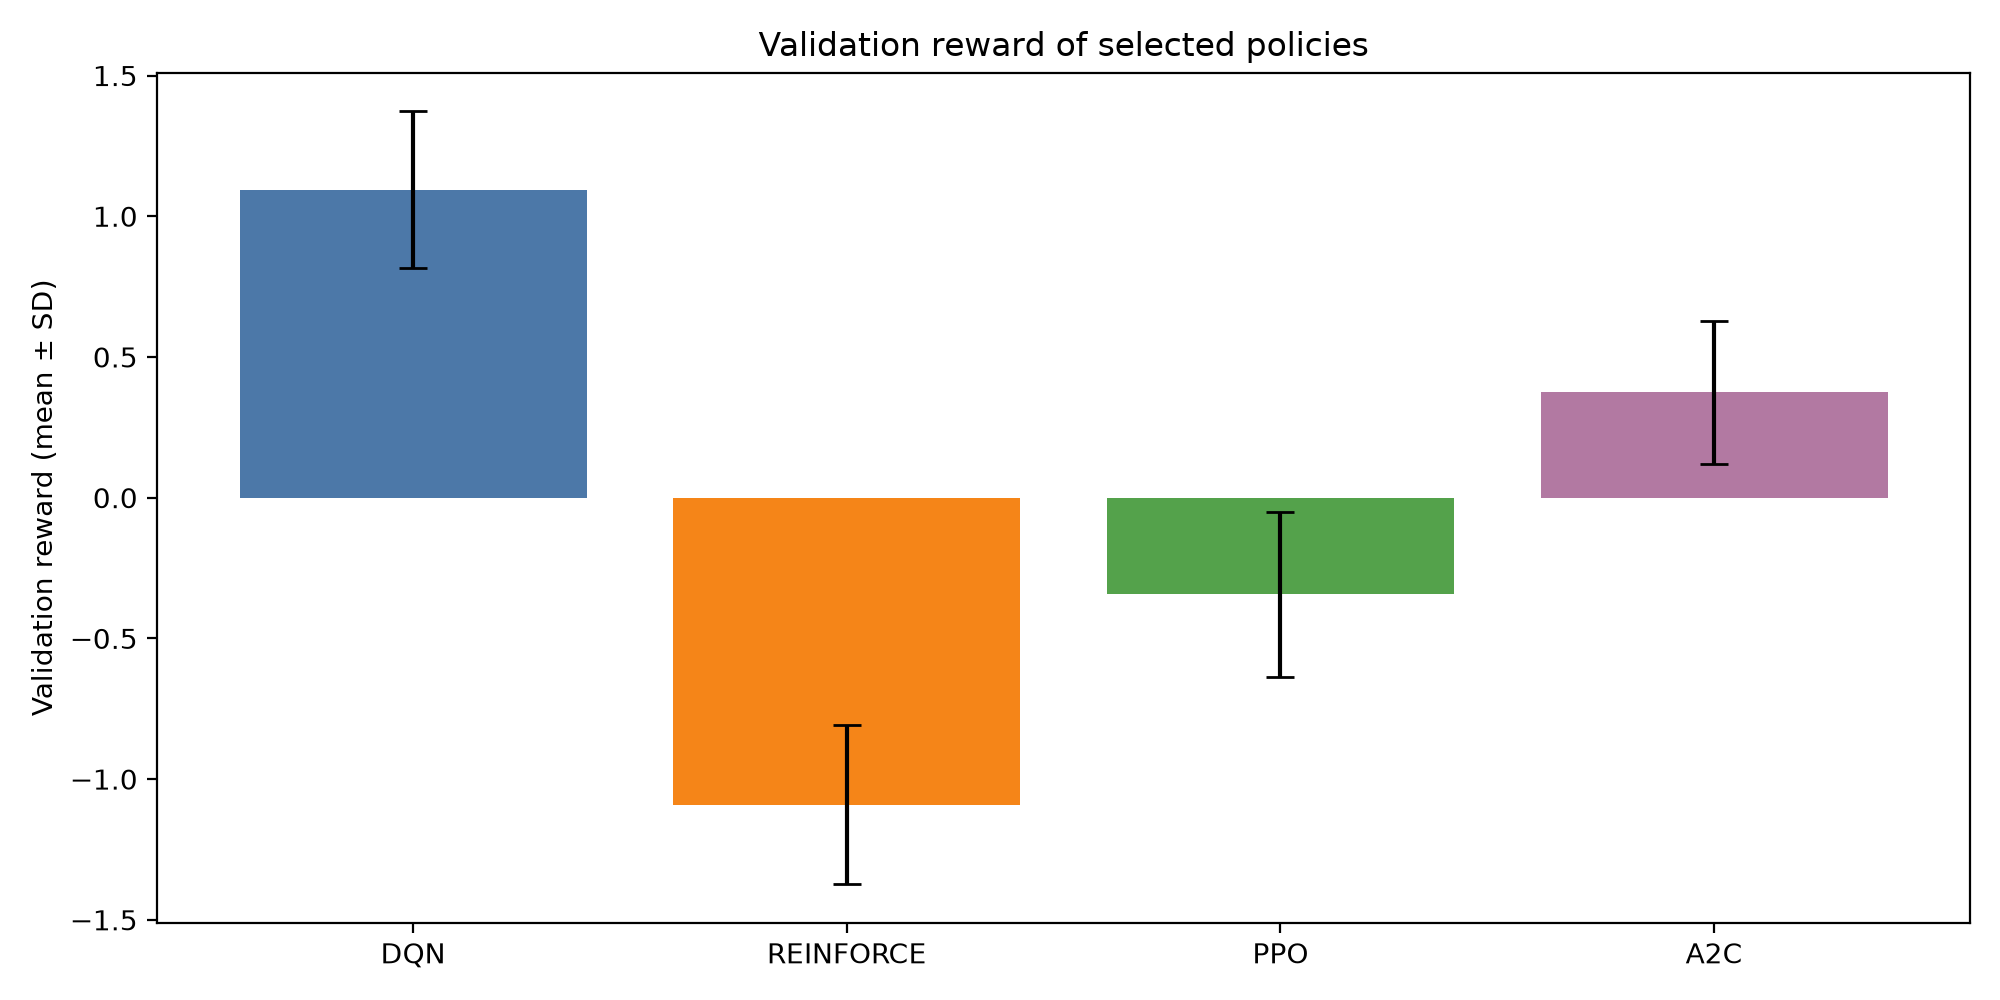
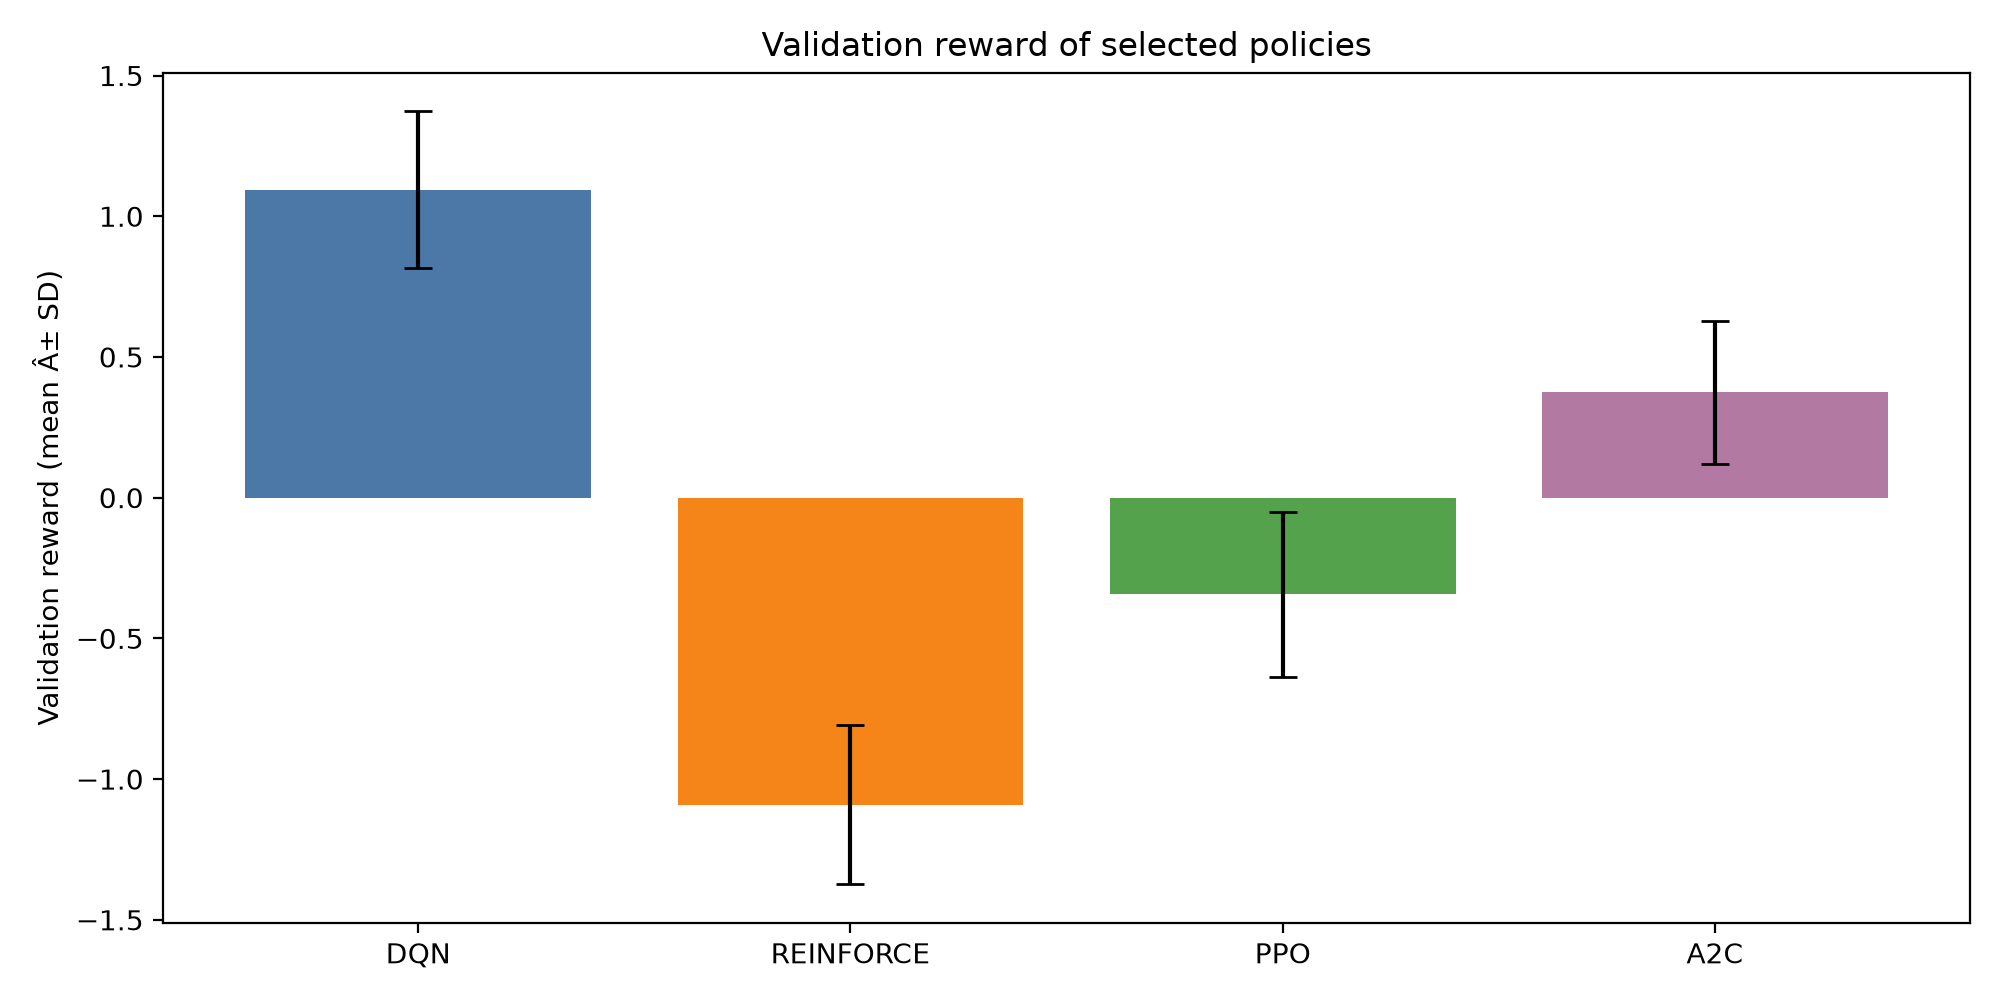
Keep demo open after episodes and add evaluation results

diff --git a/training/budget_study.py b/training/budget_study.py
@@ -1,0 +1,59 @@
+"""Repeat a selected policy-gradient configuration with a larger episode budget."""
+
+import argparse
+import csv
+import json
+from pathlib import Path
+
+import torch
+
+from training.analysis import episodes_to_convergence
+from training.evaluation import evaluate_behavior, greedy_action, sampled_action, write_results
+from training.pg_training import evaluate_policy, train_a2c, train_ppo, train_reinforce
+
+TRAINERS = {"reinforce": train_reinforce, "ppo": train_ppo, "a2c": train_a2c}
+
+
+def main():
+    parser = argparse.ArgumentParser(description=__doc__)
+    parser.add_argument("algorithm", choices=TRAINERS)
+    parser.add_argument("--episodes", type=int, default=600)
+    args = parser.parse_args()
+    if args.episodes < 1:
+        parser.error("--episodes must be positive")
+
+    torch.set_num_threads(1)
+    with Path(f"logs/{args.algorithm}_experiments.csv").open(encoding="utf-8") as handle:
+        selected = max(csv.DictReader(handle), key=lambda row: (
+            float(row["evaluation_mean_reward"]), -float(row["evaluation_std_reward"])
+        ))
+    seed = int(selected["seed"])
+    model, rewards, _, _, lengths = TRAINERS[args.algorithm](
+        args.episodes, seed, json.loads(selected["config"])
+    )
+    validation_mean, validation_sd = evaluate_policy(model)
+    convergence = episodes_to_convergence(rewards)
+    common = {
+        "source_run_id": int(selected["run_id"]),
+        "training_seed": seed,
+        "training_episodes": args.episodes,
+        "training_interactions": sum(lengths),
+        "validation_greedy_mean": validation_mean,
+        "validation_greedy_sd": validation_sd,
+        "convergence_episode": convergence if convergence is not None else "not_reached",
+    }
+    records = [
+        {"mode": "greedy", **common, **evaluate_behavior(
+            args.algorithm, lambda env, obs, rng: greedy_action(model, obs)
+        )},
+        {"mode": "sampled", **common, **evaluate_behavior(
+            args.algorithm, lambda env, obs, rng: sampled_action(model, obs, rng)
+        )},
+    ]
+    write_results(f"{args.algorithm}_budget_{args.episodes}.csv", records)
+    for record in records:
+        print(record)
+
+
+if __name__ == "__main__":
+    main()

diff --git a/main.py b/main.py
@@ -14,7 +14,7 @@ def build_parser() -> argparse.ArgumentParser:
 
     demo = sub.add_parser("demo", help="Run one trained or random agent in the Pygame GUI")
     demo.add_argument("--algorithm", choices=("best", "random", "dqn", "reinforce", "ppo", "a2c"), default="best")
-    demo.add_argument("--hold-seconds", type=float, default=30.0, help="Keep the final frame open for recording")
+    demo.add_argument("--hold-seconds", type=float, help="Auto-close after this many seconds at the end (default: wait for window close)")
 
     demo.add_argument("--seed", type=int, default=2026)
     demo.add_argument("--step-seconds", type=float, default=0.5, help="Time to display each simulated hour")
@@ -40,7 +40,7 @@ def main() -> None:
         parser.error("training requires at least one episode and 1 to 10 configurations")
 
     if args.command == "demo" and any(
-        not math.isfinite(duration) or duration < 0
+        duration is not None and (not math.isfinite(duration) or duration < 0)
         for duration in (args.step_seconds, args.hold_seconds)
     ):
         parser.error("demo durations must be finite and nonnegative")
@@ -105,7 +105,9 @@ def main() -> None:
                     reason = "critical wellbeing threshold" if terminated else "end of the week"
                     print(f"Episode finished at {reason}.", flush=True)
                 duration = args.hold_seconds if finished else args.step_seconds
-                deadline = time.monotonic() + duration
+                if finished and duration is None:
+                    print("Close the Pygame window when you are ready to exit.", flush=True)
+                deadline = math.inf if duration is None else time.monotonic() + duration
                 while True:
                     if any(
                         event.type in (pygame.QUIT, pygame.WINDOWCLOSE)

diff --git a/training/analysis.py b/training/analysis.py
@@ -37,7 +37,7 @@ def rolling_mean(values: list[float], window: int = 10) -> np.ndarray:
 
 def episodes_to_convergence(rewards: list[float], window: int = 20, stable_span: int = 50, tolerance: float = 0.05) -> int | None:
     """Estimate convergence from a stable rolling mean near the final average."""
-    if len(rewards) < window + stable_span:
+    if len(rewards) < window + stable_span - 1:
         return None
     rolling = rolling_mean(rewards, window)
     final_mean = float(np.mean(rewards[-window:]))
@@ -102,7 +102,7 @@ def generate_plots(log_dir: str = "logs", output_dir: str = "assets") -> dict:
             stds.append(record["evaluation_std_reward"])
     if names:
         ax.bar(names, means, yerr=stds, capsize=5, color=("#4C78A8", "#F58518", "#54A24B", "#B279A2"))
-        ax.set_ylabel("Validation reward (mean ± SD)")
+        ax.set_ylabel("Validation reward (mean Â± SD)")
         ax.set_title("Validation reward of selected policies")
     fig.tight_layout()
     fig.savefig(assets / "evaluation_comparison.png", dpi=200)
@@ -189,7 +189,7 @@ def generate_plots(log_dir: str = "logs", output_dir: str = "assets") -> dict:
                 "evaluation_std_reward": record["evaluation_std_reward"],
                 "late_mean_reward": stable_threshold,
                 "episodes": len(rewards),
-                "convergence_episode": convergence_episode,
+                "convergence_episode": convergence_episode if convergence_episode is not None else "not_reached",
             })
 
     all_runs = [

diff --git a/training/evaluation.py b/training/evaluation.py
@@ -7,9 +7,10 @@ from pathlib import Path
 import numpy as np
 import torch
 
-from environment.custom_env import ElderCareEnv
+from environment.custom_env import ElderCareEnv, OBSERVATION_NAMES
 
 TEST_SEEDS = range(200_000, 200_050)
+PREVIOUS_ACTION_OFFSET = OBSERVATION_NAMES.index('previous_action_0')
 
 
 def load_policy(algorithm: str):
@@ -92,6 +93,12 @@ def write_results(filename, results):
         writer.writerows(results)
 
 
+def max_fit_without_repeat(env, observation, generator) -> int:
+    previous_actions = observation[PREVIOUS_ACTION_OFFSET:PREVIOUS_ACTION_OFFSET + env.action_space.n]
+    candidates = (action for action in range(env.action_space.n) if not previous_actions[action])
+    return max(candidates, key=env._action_fit)
+
+
 def evaluate_selected():
     results = []
     diagnostics = []
@@ -107,6 +114,8 @@ def evaluate_selected():
     diagnostics.append(evaluate_behavior(
         "max_fit_oracle", lambda env, obs, rng: max(range(env.action_space.n), key=env._action_fit)
     ))
+    diagnostics.append(evaluate_behavior("max_fit_no_repeat", max_fit_without_repeat))
+    diagnostics.append(evaluate_behavior("always_hydration", lambda env, obs, rng: 1))
     diagnostics.append(evaluate_behavior("no_prompt", lambda env, obs, rng: 0))
     write_results("test_evaluation.csv", results)
     write_results("evaluation_diagnostics.csv", diagnostics)

diff --git a/tests/test_evaluation.py b/tests/test_evaluation.py
@@ -1,0 +1,20 @@
+"""Checks for evaluation and convergence edge cases."""
+
+from environment.custom_env import ElderCareEnv
+from training.analysis import episodes_to_convergence
+from training.evaluation import max_fit_without_repeat
+
+
+def test_max_fit_without_repeat_skips_previous_action():
+    env = ElderCareEnv()
+    observation, _ = env.reset(seed=200_000)
+    first = max_fit_without_repeat(env, observation, None)
+    assert first == max(range(env.action_space.n), key=env._action_fit)
+    observation, *_ = env.step(first)
+    second = max_fit_without_repeat(env, observation, None)
+    assert second == max((action for action in range(env.action_space.n) if action != first), key=env._action_fit)
+
+
+def test_convergence_at_minimum_window_count():
+    assert episodes_to_convergence([1.0] * 69) == 20
+    assert episodes_to_convergence([1.0] * 68) is None

diff --git a/README.md b/README.md
@@ -15,10 +15,21 @@ uv sync --locked
 uv run main.py test
 uv run main.py smoke
 uv run main.py evaluate
-uv run main.py demo --algorithm best
 ```
 
-The lockfile selects dependencies for Python 3.12. The demo loads the checkpoint with the highest validation mean and prints each action, its acceptance status, reward, and the current wellbeing average. Pass `--algorithm dqn`, `reinforce`, `ppo`, `a2c`, or `random` to inspect another policy.
+The lockfile selects dependencies for Python 3.12.
+
+### Run the Pygame demo
+
+```bash
+uv run main.py demo --algorithm best --seed 2026 --step-seconds 1.25
+```
+
+The demo loads the checkpoint with the highest validation mean and runs the episode automatically. The terminal prints each recommendation, the participant's response, the step reward, the cumulative reward, and the average wellbeing.
+
+When the episode ends, the terminal prints the reason and **Pygame keeps the final screen open**. You can explain the final reward and wellbeing indicators, then click the window's **X** to exit. Leave `--hold-seconds` out when recording. Add it only when you want the window to close automatically after a set number of seconds.
+
+To view a different policy, replace `best` with `dqn`, `reinforce`, `ppo`, `a2c`, or `random`.
 
 ## Environment
 
@@ -66,7 +77,25 @@ uv run main.py evaluate
 - [Training stability](assets/stability_comparison.png)
 - [Convergence curves](assets/convergence_comparison.png)
 
-On the 50 independent test seeds, DQN averaged +1.03 reward versus -0.81 for the immediate-fit heuristic, which has access to latent profile preferences. With no prompts, all 50 episodes ended early under the default critical threshold. Sampling PPO actions improved its mean return from -0.44 to +0.45. These diagnostics are generated by the evaluation command.
+### Baselines and policy behaviour
+
+On the same 50 test seeds, DQN averaged **+1.03**, uniform random **-1.04**, and the immediate-fit heuristic **-0.81**. Adding a rule that excludes the previous action raised the heuristic to **+1.57**, ahead of every trained policy tested here. Both heuristic variants use the simulator's latent profile preferences. The rule explicitly avoids triggering the repetition penalty, so this comparison shows how much a simple policy can accomplish in this reward design. With no prompts, all 50 episodes ended early.
+
+Inspection of archived checkpoints confirmed that greedy REINFORCE runs 1 and 7 chose hydration on all 4,200 test decisions. Run 10 chose hydration on 99.86% of decisions. Always choosing hydration scored **-11.57**. PPO run 1 and A2C run 1 picked exactly the same greedy action sequences on all 50 test seeds. Both checkpoints' weights differed from their seeded initializations, so matching scores alone cannot establish that training failed to update them. [Checkpoint audit](logs/policy_behavior_audit.csv)
+
+### Longer training follow-up
+
+Each policy-gradient algorithm was retrained from scratch for 600 episodes using its original validation-selected configuration and training seed. This doubles the interaction budget to 50,400 per run. The table shows mean returns on the same 50 test seeds. The follow-up is a single-seed budget comparison.
+
+| Algorithm | 300 greedy | 600 greedy | 300 sampled | 600 sampled |
+|---|---:|---:|---:|---:|
+| [REINFORCE](logs/reinforce_budget_600.csv) | -1.10 | -0.56 | -0.67 | -0.06 |
+| [PPO](logs/ppo_budget_600.csv) | -0.44 | +0.10 | +0.45 | +0.64 |
+| [A2C](logs/a2c_budget_600.csv) | +0.38 | -0.06 | -0.03 | +0.15 |
+
+Longer training improved both inference modes for REINFORCE and PPO. A2C improved when sampling actions and declined under greedy evaluation. Reproduce a follow-up with `uv run python -m training.budget_study ppo --episodes 600`, substituting `reinforce` or `a2c` as needed. The checked-in demo checkpoints still come from the original validation sweep.
+
+The convergence criterion requires 50 consecutive values of the 20-episode moving average within 5% of the final 20-episode mean. The original selected runs and the three follow-ups did not meet it within their respective budgets. The CSV records this explicitly as `not_reached`.
 
 The simulator uses synthetic profiles, scores, and response probabilities. The findings apply to this simulated environment. Each configuration has one training seed and can vary multiple settings at once, so the sweep supports comparisons between configurations.
 
